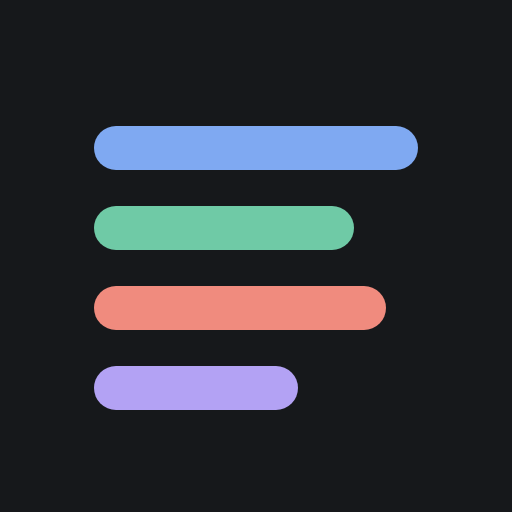
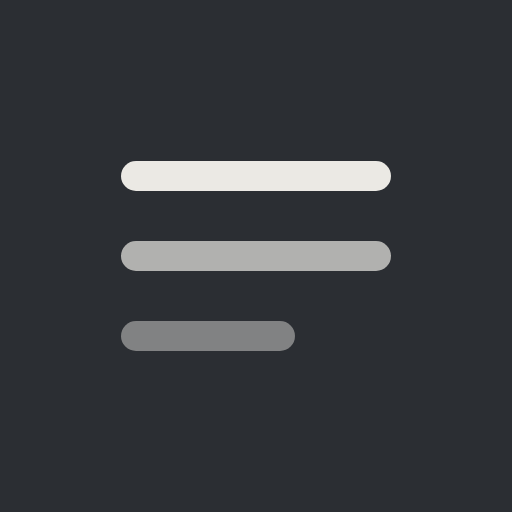
Stile più sobrio: colori spenti, titoli serif, dark grigio morbido (non nero), filetti al posto delle barre colorate
Claude-Session: https://claude.ai/code/session_013W5nbJc2NonqtEBduX2ahw

Changed region(s): [[0.1875, 0.2188, 0.8125, 0.8125]]

diff --git a/docs/assets/style.css b/docs/assets/style.css
@@ -9,63 +9,64 @@
 :root {
   color-scheme: light dark;
 
-  --bg: #ffffff;
-  --surface: #f6f6f4;
-  --surface-2: #ecece9;
-  --code: #f2f2ef;
-  --line: #e2e2de;
-  --line-2: #ececE8;
-  --text: #0e0e0f;
-  --body: #1d1d1f;
-  --muted: #6a6a70;
-  --dim: #8a8a90;
+  --bg: #f8f8f6;
+  --surface: #f0efec;
+  --surface-2: #e8e7e3;
+  --code: #efeeea;
+  --line: #dddbd6;
+  --line-2: #e8e6e2;
+  --text: #26272a;
+  --body: #34353a;
+  --muted: #76767b;
+  --dim: #94949a;
 
-  --blue: #0b5cd5;
-  --green: #0a7a4f;
-  --amber: #946000;
-  --red: #c6321f;
-  --purple: #6a41d8;
-  --teal: #0a7770;
-  --cyan: #0b7490;
-  --coral: #c24a0e;
-  --gray: #77777e;
+  --blue: #4f729c;
+  --green: #5f8566;
+  --amber: #a07b3c;
+  --red: #b0594f;
+  --purple: #7d6c9c;
+  --teal: #55908c;
+  --cyan: #548ca0;
+  --coral: #b2704a;
+  --gray: #86868c;
 
-  --accent: var(--blue);
+  --accent: #3f5f86;
   --on-accent: #ffffff;
 
-  --r: 10px;
-  --r-s: 8px;
+  --r: 8px;
+  --r-s: 6px;
   --sans: -apple-system, BlinkMacSystemFont, "SF Pro Text", "Segoe UI", Roboto, system-ui, sans-serif;
   --font: var(--sans);
   --serif: ui-serif, "New York", "Iowan Old Style", Charter, Georgia, "Times New Roman", serif;
   --mono: ui-monospace, "SF Mono", Menlo, Consolas, monospace;
-  --bar: color-mix(in srgb, var(--bg) 88%, transparent);
+  --bar: color-mix(in srgb, var(--bg) 90%, transparent);
 }
 
 @media (prefers-color-scheme: dark) {
   :root {
-    --bg: #0d0d0e;
-    --surface: #18181a;
-    --surface-2: #232326;
-    --code: #151517;
-    --line: #2f2f33;
-    --line-2: #232326;
-    --text: #f5f5f6;
-    --body: #dcdce0;
-    --muted: #a0a0a8;
-    --dim: #7e7e86;
+    --bg: #25272b;
+    --surface: #2d3035;
+    --surface-2: #373a40;
+    --code: #2a2d31;
+    --line: #3e4147;
+    --line-2: #33363b;
+    --text: #ebe9e4;
+    --body: #d5d3cd;
+    --muted: #9c9ca2;
+    --dim: #7c7c83;
 
-    --blue: #7aa7ff;
-    --green: #5fd3a0;
-    --amber: #f0bd62;
-    --red: #ff8a78;
-    --purple: #b8a2ff;
-    --teal: #5fd6cb;
-    --cyan: #62c9e3;
-    --coral: #ffa06c;
-    --gray: #9a9aa3;
+    --blue: #8aa9d0;
+    --green: #8fb596;
+    --amber: #cfae70;
+    --red: #d28b82;
+    --purple: #ab9bcb;
+    --teal: #86bdb8;
+    --cyan: #82b8cc;
+    --coral: #d39a78;
+    --gray: #9a9aa1;
 
-    --on-accent: #0d0d0e;
+    --accent: #9db8da;
+    --on-accent: #25272b;
   }
 }
 
@@ -80,12 +81,6 @@
 .coral { --c: var(--coral); }
 .gray { --c: var(--gray); }
 
-/* colore della materia (classe sul <body>) */
-.t-reti { --accent: var(--blue); }
-.t-gpoi { --accent: var(--green); }
-.t-storia { --accent: var(--red); }
-.t-inglese { --accent: var(--purple); }
-.t-prec { --accent: var(--teal); }
 
 /* ---------- base ---------- */
 * { box-sizing: border-box; margin: 0; padding: 0; }
@@ -152,10 +147,10 @@ code {
 .back svg { width: 22px; height: 22px; flex: none; }
 .back:active { opacity: .5; }
 .page-head h1 {
-  font: 800 40px/1.05 var(--sans);
-  letter-spacing: -.03em;
+  font: 600 36px/1.12 var(--serif);
+  letter-spacing: -.01em;
   color: var(--text);
-  margin-top: 14px;
+  margin-top: 12px;
 }
 .page-head .lead { color: var(--muted); font: 16px/1.45 var(--sans); margin-top: 8px; }
 
@@ -177,8 +172,7 @@ code {
   border: 0;
   border-bottom: 1px solid var(--line);
   color: var(--text);
-  font: 600 19px/1.3 var(--sans);
-  letter-spacing: -.01em;
+  font: 500 20px/1.3 var(--serif);
   text-align: left;
   cursor: pointer;
 }
@@ -186,8 +180,8 @@ code {
   content: counter(cap);
   flex: none;
   width: 22px;
-  color: var(--accent);
-  font: 700 17px var(--sans);
+  color: var(--dim);
+  font: 400 16px var(--sans);
   font-variant-numeric: tabular-nums;
 }
 .tabs button::after {
@@ -252,16 +246,16 @@ body.reading .section.visible { display: block; }
 .sub-section.visible { display: block; }
 
 .chapter-title {
-  font: 800 31px/1.12 var(--sans);
-  letter-spacing: -.028em;
+  font: 600 29px/1.2 var(--serif);
+  letter-spacing: -.01em;
   color: var(--text);
   margin: 0 0 10px;
 }
 .chapter-lead { color: var(--muted); font: 16.5px/1.5 var(--sans); margin: 0 0 22px; }
 
 .sep {
-  font: 750 22px/1.25 var(--sans);
-  letter-spacing: -.02em;
+  font: 600 22px/1.28 var(--serif);
+  letter-spacing: 0;
   color: var(--text);
   margin: 40px 0 14px;
   padding-top: 24px;
@@ -279,25 +273,25 @@ body.reading .section.visible { display: block; }
   padding: 0;
   background: none;
   border: 0;
-  border-bottom: 3px solid transparent;
+  border-bottom: 2px solid transparent;
   color: var(--muted);
-  font: 650 16px var(--sans);
+  font: 500 16px var(--sans);
   cursor: pointer;
 }
 .sub-nav button:active { color: var(--text); }
-.sub-nav button.on { color: var(--text); border-bottom-color: var(--accent); }
+.sub-nav button.on { color: var(--text); border-bottom-color: var(--text); }
 
 /* ---------- blocchi ---------- */
 .block {
-  border-left: 3px solid var(--c, var(--line));
-  padding: 2px 0 2px 16px;
-  margin: 0 0 26px;
+  border-top: 2px solid color-mix(in srgb, var(--c, var(--line)) 55%, var(--bg));
+  padding: 12px 0 0;
+  margin: 0 0 30px;
 }
-.btitle { font: 700 18px/1.35 var(--sans); letter-spacing: -.01em; color: var(--text); margin-bottom: 6px; }
-.byear { font: 700 14px/1.4 var(--sans); color: var(--c, var(--muted)); margin-bottom: 2px; }
+.btitle { font: 650 17px/1.35 var(--sans); color: var(--text); margin-bottom: 6px; }
+.byear { font: 600 13.5px/1.4 var(--sans); color: var(--c, var(--muted)); margin-bottom: 2px; }
 
 .card { margin: 0 0 26px; }
-.card-title { font: 700 18px/1.35 var(--sans); color: var(--text); padding-bottom: 8px; margin-bottom: 14px; border-bottom: 1px solid var(--line); }
+.card-title { font: 650 17px/1.35 var(--sans); color: var(--text); padding-bottom: 8px; margin-bottom: 14px; border-bottom: 1px solid var(--line); }
 .card .block { background: none; }
 
 .grid2, .grid3 { display: grid; grid-template-columns: 1fr; gap: 0; margin-bottom: 0; }
@@ -308,16 +302,16 @@ body.reading .section.visible { display: block; }
 }
 
 .card-small {
-  border-left: 3px solid var(--c, var(--line));
-  padding: 2px 0 2px 16px;
-  margin: 0 0 26px;
+  border-top: 2px solid color-mix(in srgb, var(--c, var(--line)) 55%, var(--bg));
+  padding: 12px 0 0;
+  margin: 0 0 30px;
   min-width: 0;
 }
-.card-small .ct { font: 700 18px/1.35 var(--sans); letter-spacing: -.01em; color: var(--text); margin-bottom: 6px; }
+.card-small .ct { font: 650 17px/1.35 var(--sans); color: var(--text); margin-bottom: 6px; }
 
 .badge {
   display: block;
-  font: 700 14px/1.4 var(--sans);
+  font: 600 13.5px/1.4 var(--sans);
   color: var(--c, var(--muted));
   margin-bottom: 2px;
 }
@@ -333,7 +327,7 @@ body.reading .section.visible { display: block; }
 .pill.info { --c: var(--blue); }
 
 .highlight {
-  background: color-mix(in srgb, var(--c, var(--accent)) 9%, var(--bg));
+  background: var(--surface);
   border-radius: var(--r-s);
   padding: 14px 16px;
   margin: 18px 0 26px;
@@ -344,8 +338,8 @@ body.reading .section.visible { display: block; }
 .link-row {
   display: block;
   text-decoration: none;
-  border-left: 3px solid var(--accent);
-  padding: 4px 0 4px 16px;
+  border-top: 2px solid var(--line);
+  padding: 12px 0 0;
   margin-bottom: 26px;
   color: var(--text);
 }
@@ -357,7 +351,7 @@ body.reading .section.visible { display: block; }
 .tbl-wrap {
   overflow-x: auto;
   -webkit-overflow-scrolling: touch;
-  border-top: 2px solid var(--text);
+  border-top: 1px solid var(--text);
   border-bottom: 1px solid var(--line);
   margin: 14px 0 26px;
 }
@@ -472,7 +466,7 @@ summary {
   gap: 12px;
   min-height: 56px;
   padding: 10px 0;
-  font: 650 17px/1.4 var(--sans);
+  font: 500 17px/1.4 var(--sans);
   color: var(--text);
 }
 summary::-webkit-details-marker { display: none; }
@@ -497,10 +491,10 @@ details .note { font: 14.5px/1.5 var(--sans); color: var(--muted); margin: 0 0 1
    ========================================================== */
 .masthead { padding: 18px 0 0; font: 600 15px var(--sans); color: var(--muted); }
 .home-title {
-  font: 800 48px/1.02 var(--sans);
-  letter-spacing: -.035em;
+  font: 600 46px/1.05 var(--serif);
+  letter-spacing: -.015em;
   color: var(--text);
-  margin: 26px 0 6px;
+  margin: 28px 0 6px;
 }
 .home-sub { color: var(--muted); font: 17px var(--sans); }
 .group-label { font: 700 14px var(--sans); color: var(--muted); margin: 38px 0 4px; }
@@ -517,16 +511,8 @@ details .note { font: 14.5px/1.5 var(--sans); color: var(--muted); margin: 0 0 1
   border-bottom: 1px solid var(--line);
 }
 .subject:active { background: var(--surface); }
-.subject::before {
-  content: "";
-  flex: none;
-  align-self: stretch;
-  width: 4px;
-  border-radius: 2px;
-  background: var(--c);
-}
 .subject-main { flex: 1; min-width: 0; }
-.subject h2 { font: 750 22px/1.2 var(--sans); color: var(--text); letter-spacing: -.02em; }
+.subject h2 { font: 600 23px/1.2 var(--serif); color: var(--text); }
 .subject p { color: var(--muted); font: 14.5px/1.4 var(--sans); margin-top: 3px; }
 .subject::after {
   content: "";
@@ -546,8 +532,8 @@ details .note { font: 14.5px/1.5 var(--sans); color: var(--muted); margin: 0 0 1
   min-height: 60px;
   padding: 0;
   border-bottom: 1px solid var(--line);
-  color: var(--teal);
-  font: 650 17px var(--sans);
+  color: var(--accent);
+  font: 500 17px var(--sans);
   text-decoration: none;
 }
 .past:active { background: var(--surface); }
@@ -563,7 +549,7 @@ details .note { font: 14.5px/1.5 var(--sans); color: var(--muted); margin: 0 0 1
   margin: 0;
   border-bottom: 1px solid var(--line);
 }
-.soon .n { font: 600 18px var(--sans); color: var(--muted); }
+.soon .n { font: 500 19px var(--serif); color: var(--muted); }
 .soon .d { font: 14px var(--sans); color: var(--dim); text-align: right; }
 
 .site-foot {

diff --git a/docs/anno-precedente/index.html b/docs/anno-precedente/index.html
@@ -3,8 +3,8 @@
 <head>
 <meta charset="UTF-8">
 <meta name="viewport" content="width=device-width, initial-scale=1, viewport-fit=cover">
-<meta name="theme-color" content="#ffffff" media="(prefers-color-scheme: light)">
-<meta name="theme-color" content="#0d0d0e" media="(prefers-color-scheme: dark)">
+<meta name="theme-color" content="#f8f8f6" media="(prefers-color-scheme: light)">
+<meta name="theme-color" content="#25272b" media="(prefers-color-scheme: dark)">
 <meta name="apple-mobile-web-app-capable" content="yes">
 <meta name="mobile-web-app-capable" content="yes">
 <meta name="apple-mobile-web-app-status-bar-style" content="default">

diff --git a/docs/gpoi/index.html b/docs/gpoi/index.html
@@ -3,8 +3,8 @@
 <head>
 <meta charset="UTF-8">
 <meta name="viewport" content="width=device-width, initial-scale=1, viewport-fit=cover">
-<meta name="theme-color" content="#ffffff" media="(prefers-color-scheme: light)">
-<meta name="theme-color" content="#0d0d0e" media="(prefers-color-scheme: dark)">
+<meta name="theme-color" content="#f8f8f6" media="(prefers-color-scheme: light)">
+<meta name="theme-color" content="#25272b" media="(prefers-color-scheme: dark)">
 <meta name="apple-mobile-web-app-capable" content="yes">
 <meta name="mobile-web-app-capable" content="yes">
 <meta name="apple-mobile-web-app-status-bar-style" content="default">

diff --git a/docs/index.html b/docs/index.html
@@ -3,8 +3,8 @@
 <head>
 <meta charset="UTF-8">
 <meta name="viewport" content="width=device-width, initial-scale=1, viewport-fit=cover">
-<meta name="theme-color" content="#ffffff" media="(prefers-color-scheme: light)">
-<meta name="theme-color" content="#0d0d0e" media="(prefers-color-scheme: dark)">
+<meta name="theme-color" content="#f8f8f6" media="(prefers-color-scheme: light)">
+<meta name="theme-color" content="#25272b" media="(prefers-color-scheme: dark)">
 <meta name="apple-mobile-web-app-capable" content="yes">
 <meta name="mobile-web-app-capable" content="yes">
 <meta name="apple-mobile-web-app-status-bar-style" content="default">

diff --git a/docs/inglese/index.html b/docs/inglese/index.html
@@ -3,8 +3,8 @@
 <head>
 <meta charset="UTF-8">
 <meta name="viewport" content="width=device-width, initial-scale=1, viewport-fit=cover">
-<meta name="theme-color" content="#ffffff" media="(prefers-color-scheme: light)">
-<meta name="theme-color" content="#0d0d0e" media="(prefers-color-scheme: dark)">
+<meta name="theme-color" content="#f8f8f6" media="(prefers-color-scheme: light)">
+<meta name="theme-color" content="#25272b" media="(prefers-color-scheme: dark)">
 <meta name="apple-mobile-web-app-capable" content="yes">
 <meta name="mobile-web-app-capable" content="yes">
 <meta name="apple-mobile-web-app-status-bar-style" content="default">

diff --git a/docs/reti/index.html b/docs/reti/index.html
@@ -3,8 +3,8 @@
 <head>
 <meta charset="UTF-8">
 <meta name="viewport" content="width=device-width, initial-scale=1, viewport-fit=cover">
-<meta name="theme-color" content="#ffffff" media="(prefers-color-scheme: light)">
-<meta name="theme-color" content="#0d0d0e" media="(prefers-color-scheme: dark)">
+<meta name="theme-color" content="#f8f8f6" media="(prefers-color-scheme: light)">
+<meta name="theme-color" content="#25272b" media="(prefers-color-scheme: dark)">
 <meta name="apple-mobile-web-app-capable" content="yes">
 <meta name="mobile-web-app-capable" content="yes">
 <meta name="apple-mobile-web-app-status-bar-style" content="default">

diff --git a/docs/storia/index.html b/docs/storia/index.html
@@ -3,8 +3,8 @@
 <head>
 <meta charset="UTF-8">
 <meta name="viewport" content="width=device-width, initial-scale=1, viewport-fit=cover">
-<meta name="theme-color" content="#ffffff" media="(prefers-color-scheme: light)">
-<meta name="theme-color" content="#0d0d0e" media="(prefers-color-scheme: dark)">
+<meta name="theme-color" content="#f8f8f6" media="(prefers-color-scheme: light)">
+<meta name="theme-color" content="#25272b" media="(prefers-color-scheme: dark)">
 <meta name="apple-mobile-web-app-capable" content="yes">
 <meta name="mobile-web-app-capable" content="yes">
 <meta name="apple-mobile-web-app-status-bar-style" content="default">
